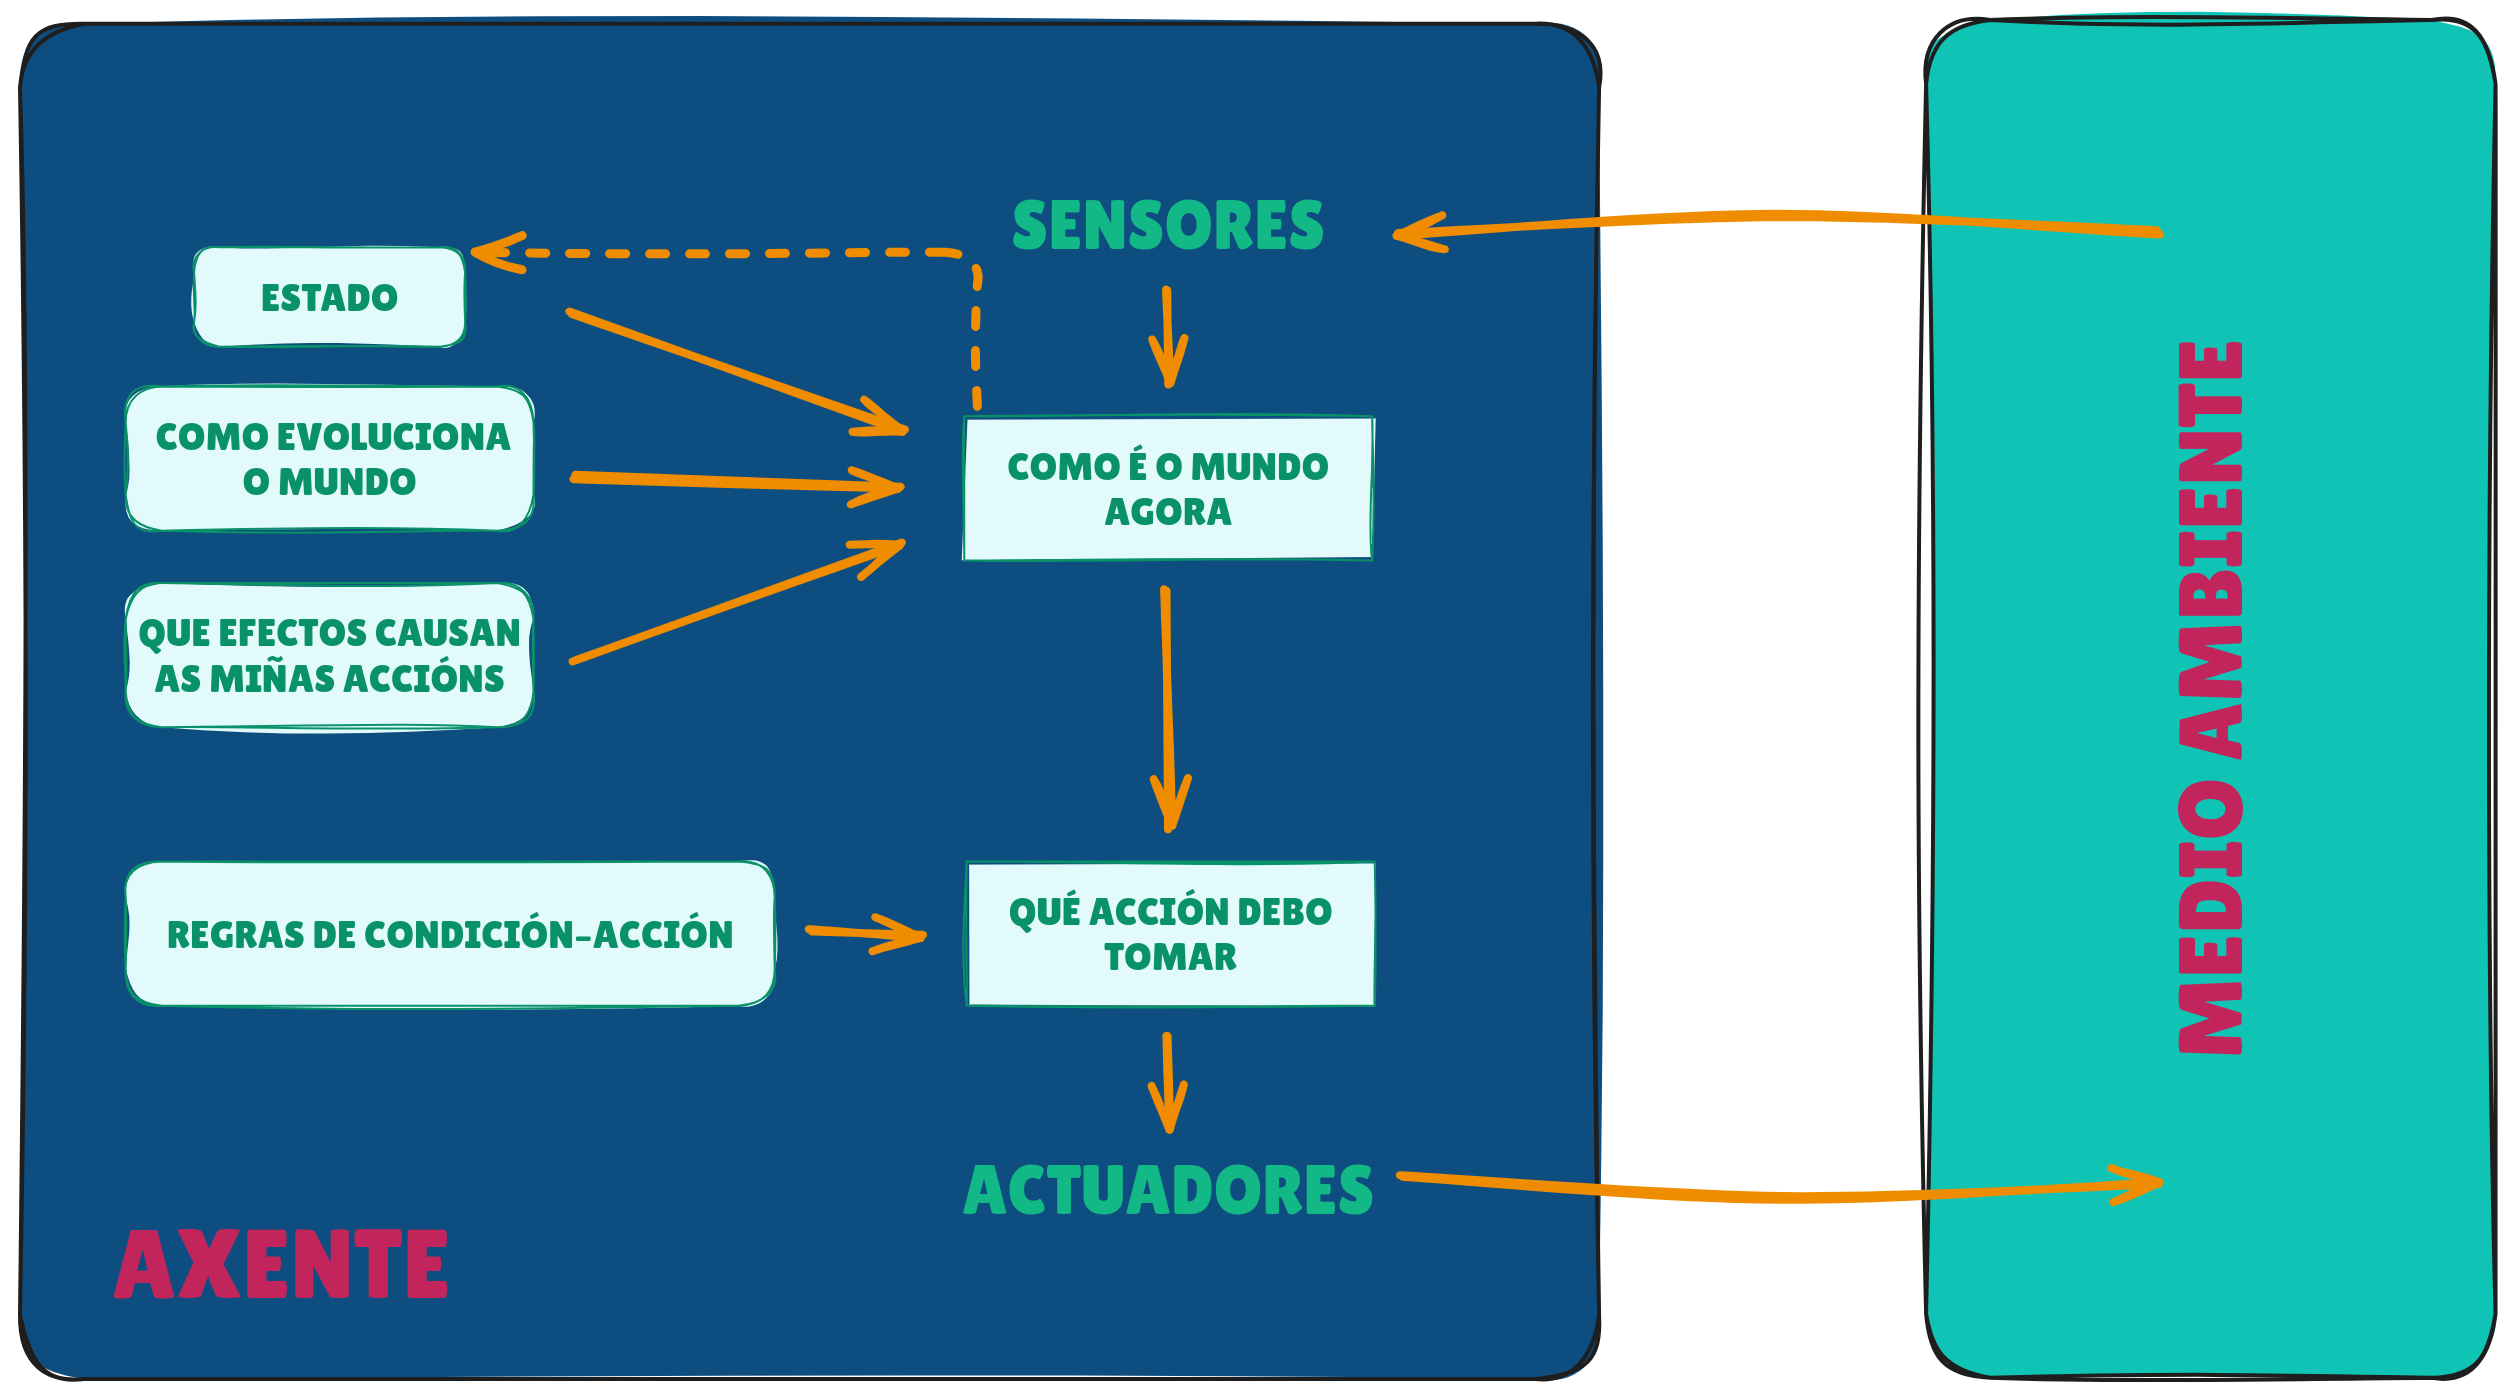
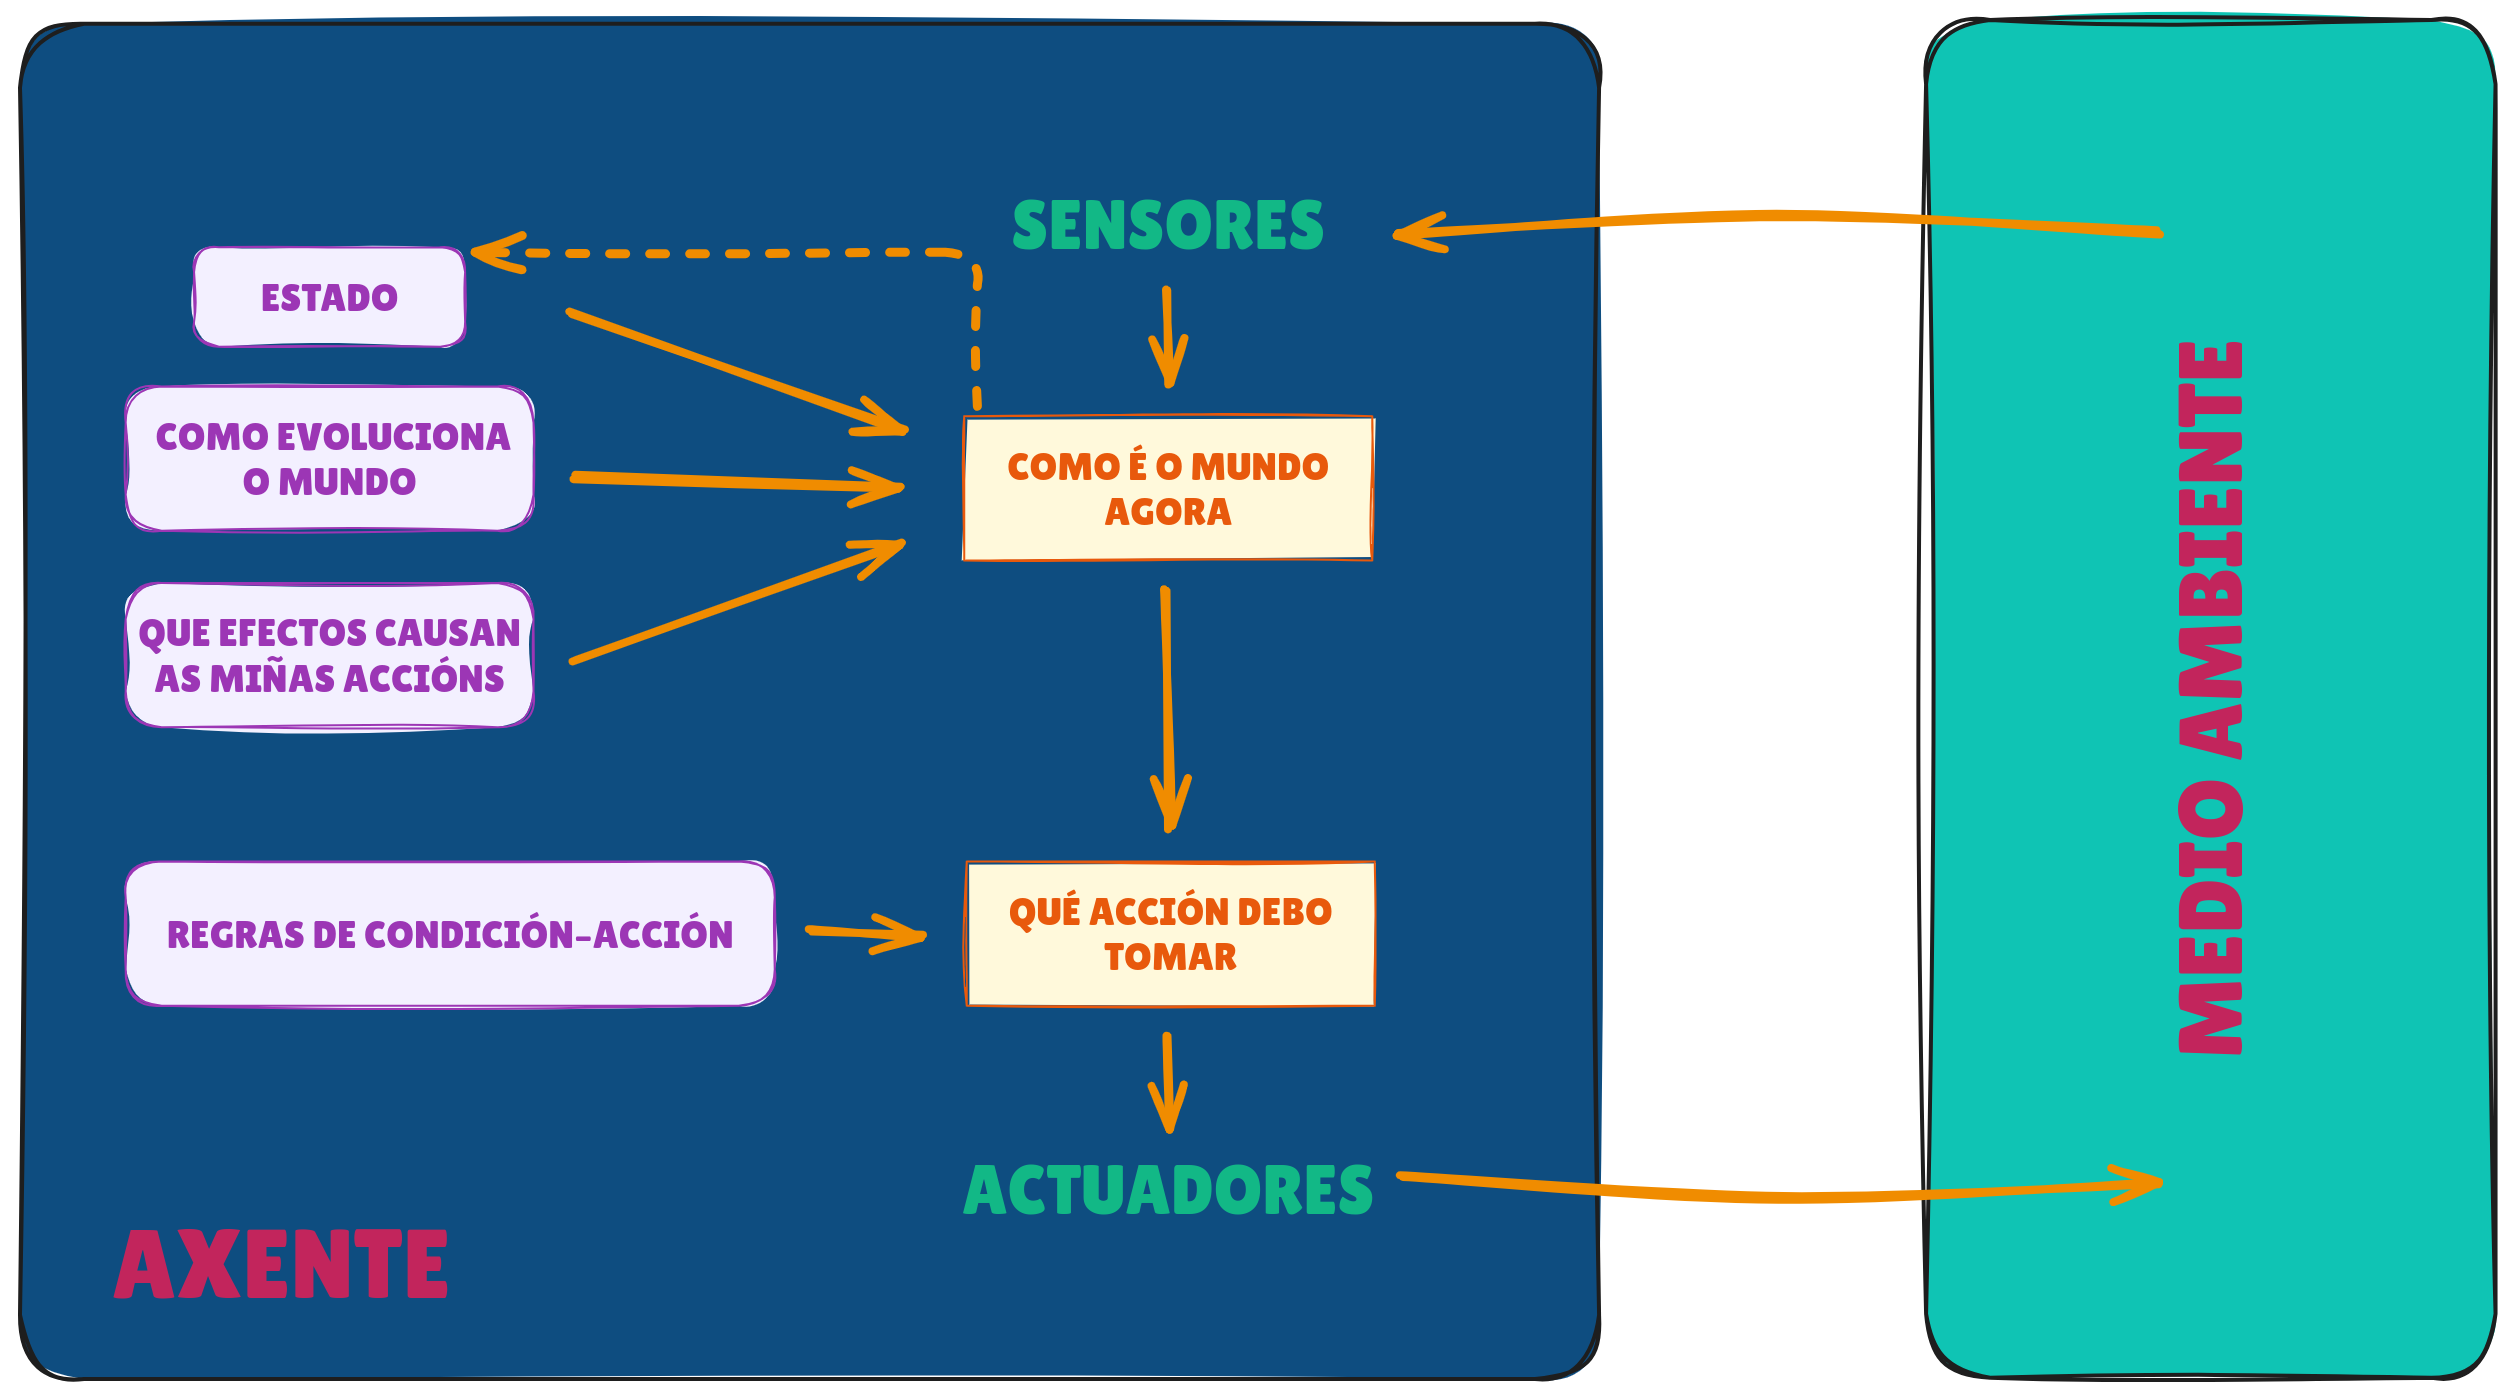
style(README): :lipstick: Engadir colores e orde ás definiciós da estrutura do axente, Crear requirements.txt

diff --git a/README.md b/README.md
@@ -33,20 +33,22 @@ Estrutura do axente
 
 ![](./img/estrutura_do_axente.png)
 
-**Estado** ⮞ Almacena o historial das partidas anteriores, gardando os movementos do opoñente e os resultados das partidas. Esta información permite identificar posibles patróns de xogo do adversario.
+**<font color="#C2255C">Axente</font>** ⮞ É o xogador automatizado que toma decisións baseándose na información acumulada das partidas anteriores e nos patróns detectados no comportamento do opoñente. O axente actúa de maneira pseudo-racional, buscando maximizar as súas posibilidades de éxito en cada partida.
 
-**Como evoluciona o mundo** ⮞ Analiza as tendencias nos movementos do opoñente ao longo das partidas, baseándose nos datos almacenados no estado, para detectar cambios na estratexia do adversario.
+**<font color="#38B886">Sensores</font>** ⮞ Captan información do entorno, como o último movemento do opoñente e o resultado da última partida, actualizando así os datos dispoñibles para o axente.
 
-**Que efectos causan as miñas accións** ⮞ Avalía os resultados das accións do axente (como a elección de pedra, papel ou tesoira) en función das reaccións do opoñente, determinando se as estratexias empregadas foron efectivas ou non.
+**<font color="#e8590b">Como é o mundo agora</font>** ⮞ Xera unha representación actualizada do xogo, combinando a información do último movemento do opoñente, os resultados recentes e os patróns detectados no historial.
 
-**Regras de condición–acción** ⮞ Conxunto de regras que guían as decisións do axente. Por exemplo, se detecta que o opoñente tende a repetir os seus últimos movementos, pode contrarrestalos baseándose no patrón identificado.
+**<font color="#9c36b5">Estado</font>** ⮞ Almacena o historial das partidas anteriores, gardando os movementos do opoñente e os resultados das partidas. Esta información permite identificar posibles patróns de xogo do adversario.
 
-**Sensores** ⮞ Captan información do entorno, como o último movemento do opoñente e o resultado da última partida, actualizando así os datos dispoñibles para o axente.
+**<font color="#9c36b5">Como evoluciona o mundo</font>** ⮞ Analiza as tendencias nos movementos do opoñente ao longo das partidas, baseándose nos datos almacenados no estado, para detectar cambios na estratexia do adversario.
 
-**Como é o mundo agora** ⮞ Xera unha representación actualizada do xogo, combinando a información do último movemento do opoñente, os resultados recentes e os patróns detectados no historial.
+**<font color="#9c36b5">Que efectos causan as miñas accións</font>**  ⮞ Avalía os resultados das accións do axente (como a elección de pedra, papel ou tesoira) en función das reaccións do opoñente, determinando se as estratexias empregadas foron efectivas ou non.
 
-**Que acción debo tomar** ⮞ Decide cal é a mellor opción a xogar (pedra, papel ou tesoira) en función dos patróns detectados, o estado actual do xogo e as regras definidas.
+**<font color="#e8590b">Que acción debo tomar</font>** ⮞ Decide cal é a mellor opción a xogar (pedra, papel ou tesoira) en función dos patróns detectados, o estado actual do xogo e as regras definidas.
 
-**Actuadores** ⮞ Executan a decisión tomada polo axente, seleccionando pedra, papel ou tesoira para xogar a seguinte rolda.
+**<font color="#9c36b5">Regras de condición–acción</font>** ⮞ Conxunto de regras que guían as decisións do axente. Por exemplo, se detecta que o opoñente tende a repetir os seus últimos movementos, pode contrarrestalos baseándose no patrón identificado.
 
-**Medio ambiente** ⮞ Inclúe o opoñente e as regras do xogo, proporcionando ao axente o contexto no que se desenvolven as partidas.
+**<font color="#38B886">Actuadores</font>** ⮞ Executan a decisión tomada polo axente, seleccionando pedra, papel ou tesoira para xogar a seguinte partida.
+
+**<font color="#C2255C">Medio ambiente</font>** ⮞ Inclúe o opoñente e as regras do xogo, proporcionando ao axente o contexto no que se desenvolven as partidas.
